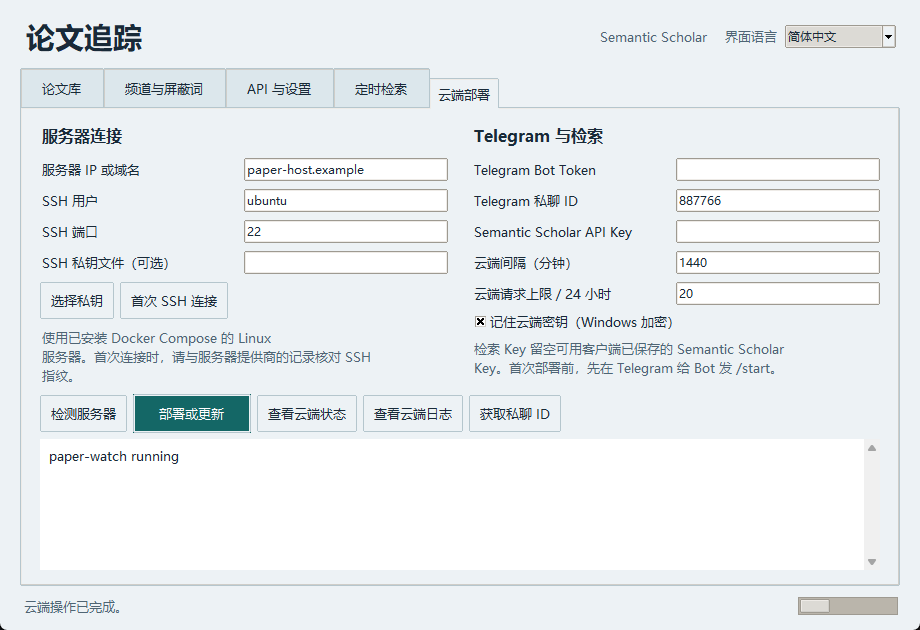
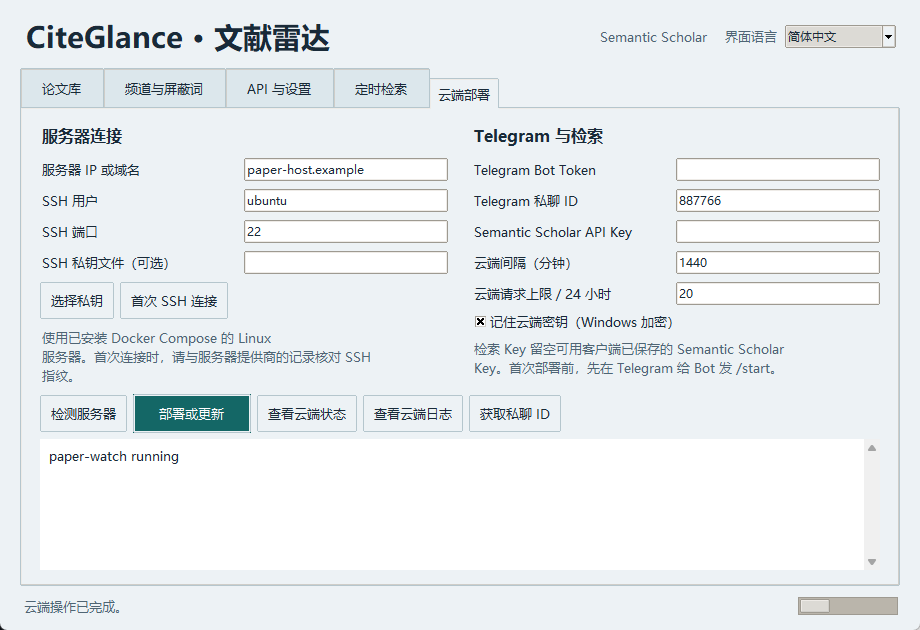
Rename the project to CiteGlance

Changed region(s): [[0.0304, 0.0302, 0.3652, 0.0905], [0.9739, 0.9952, 1.0, 1.0]]

diff --git a/desktop.py b/desktop.py
@@ -1,4 +1,4 @@
-"""Paper Watch desktop client for Windows and Python installations with Tk."""
+"""CiteGlance desktop client for Windows and Python installations with Tk."""
 
 from copy import deepcopy
 from datetime import datetime
@@ -52,7 +52,7 @@ class PaperWatch(tk.Tk):
         self.ui_language = self.settings["ui_language"]
         if not isinstance(self.ui_language, str) or self.ui_language not in INTERFACE_LANGUAGES:
             self.ui_language = "zh"
-        self.title(self.t("论文追踪"))
+        self.title(self.t(bot.APP_TITLE))
         self.static_labels = []
         self.tab_labels = []
         self.table_labels = []
@@ -93,7 +93,7 @@ class PaperWatch(tk.Tk):
 
         header = ttk.Frame(self, padding=(24, 15, 24, 10))
         header.pack(fill="x")
-        self.label(header, "论文追踪", font=TITLE_FONT).pack(side="left")
+        self.label(header, bot.APP_TITLE, font=TITLE_FONT).pack(side="left")
         self.locale_picker = ttk.Combobox(header, values=tuple(INTERFACE_LANGUAGES.values()),
                                          state="readonly", width=13)
         self.locale_picker.current(tuple(INTERFACE_LANGUAGES).index(self.ui_language))
@@ -222,7 +222,7 @@ class PaperWatch(tk.Tk):
             return
         self.settings = fresh
         self.ui_language = language
-        self.title(self.t("论文追踪"))
+        self.title(self.t(bot.APP_TITLE))
         for widget, caption in self.static_labels:
             widget.configure(text=self.t(caption))
         for tab, caption in self.tab_labels:
@@ -1144,4 +1144,4 @@ if __name__ == "__main__":
             language = saved_settings(DATA_DIRECTORY)["ui_language"]
         except (OSError, ValueError):
             language = "zh"
-        messagebox.showerror(translate(language, "无法启动论文追踪"), translate_error(language, error))
+        messagebox.showerror(translate(language, "无法启动 CiteGlance"), translate_error(language, error))

diff --git a/bot.py b/bot.py
@@ -19,6 +19,8 @@ STATE_FILE = ROOT / "state.json"
 SEARCH_URL = "https://api.semanticscholar.org/graph/v1/paper/search/bulk"
 FIELDS = "title,abstract,publicationDate,year,venue,url,externalIds,authors"
 REQUEST_BUDGET = 20
+APP_NAME = "CiteGlance"
+APP_TITLE = "CiteGlance · 文献雷达"
 JAPAN_TIME = timezone(timedelta(hours=9))
 
 
@@ -301,7 +303,7 @@ def format_entry(row):
 
 
 def report_chunks(today, rows, failures, used):
-    heading = f"论文追踪｜{today}（日本时间）\n本次新发现 {len(rows)} 篇 · Semantic Scholar 请求 {used} 次"
+    heading = f"{APP_TITLE}｜{today}（日本时间）\n本次新发现 {len(rows)} 篇 · Semantic Scholar 请求 {used} 次"
     if failures:
         heading += "\n检索未完成：" + "；".join(
             f"频道 {number}（{reason}）" for number, reason in sorted(failures)
@@ -318,7 +320,7 @@ def report_chunks(today, rows, failures, used):
             entry = raw[:6598].decode("utf-16-le", errors="ignore") + "…"
         if len((message + "\n\n" + entry).encode("utf-16-le")) > 7600:
             yield message, keys
-            message = f"论文追踪｜{today}（续）"
+            message = f"{APP_TITLE}｜{today}（续）"
             keys = set()
         message += "\n\n" + entry
         keys.update(identifiers)
@@ -337,7 +339,7 @@ def telegram_call(token, method, **params):
 
 
 def main():
-    parser = argparse.ArgumentParser(description="Semantic Scholar 四频道论文日更")
+    parser = argparse.ArgumentParser(description=f"{APP_NAME} · Semantic Scholar 论文追踪")
     argparse_modes = parser.add_mutually_exclusive_group()
     argparse_modes.add_argument("--chat-id", action="store_true", help="安全查询 Telegram 私聊 ID")
     argparse_modes.add_argument("--dry-run", action="store_true", help="只在终端预览")

diff --git a/server.py b/server.py
@@ -217,7 +217,7 @@ class AlwaysOn:
             scheduling = "自动检索已到期"
         current = " · 正在检索" if self.search_lock.locked() else ""
         outcome = self.store.get("last_result", "尚无记录")
-        return (f"论文追踪在线{current}\n{scheduling}\n"
+        return (f"{bot.APP_NAME} 在线{current}\n{scheduling}\n"
                 f"过去 24 小时的请求 · {used}/{self.settings.daily_budget}\n上次结果 · {outcome}")
 
     def update_offset(self):
@@ -242,7 +242,7 @@ class AlwaysOn:
                 continue
             command = (message.get("text") or "").strip().partition(" ")[0].partition("@")[0]
             if command in ("/start", "/help"):
-                self.send("论文追踪 Bot\n/status 查看状态和用量\n/search 立即检索全部频道")
+                self.send(f"{bot.APP_NAME} Bot\n/status 查看状态和用量\n/search 立即检索全部频道")
             elif command == "/status":
                 self.send(self.status())
             elif command == "/search":
@@ -297,7 +297,7 @@ def main():
         return 1
     for signum in (signal.SIGINT, signal.SIGTERM):
         signal.signal(signum, lambda *_: service.stop.set())
-    LOG.info("Paper Watch started: %s channels, interval %s minutes", len(channels), settings.interval_minutes)
+    LOG.info("%s started: %s channels, interval %s minutes", bot.APP_NAME, len(channels), settings.interval_minutes)
     service.run()
     return 0
 

diff --git a/cloud_remote.py b/cloud_remote.py
@@ -74,12 +74,12 @@ def execute(action, root):
     if action == "deploy":
         install_files(root, json.load(sys.stdin))
     if not (root / "compose.yaml").is_file():
-        raise ValueError("Paper Watch has not been deployed from the client on this host.")
+        raise ValueError("CiteGlance has not been deployed from the client on this host.")
     compose = [docker, "compose", "--project-name", "paper-watch"]
     if action == "deploy":
         run(compose + ["config", "--quiet"], root)
         run(compose + ["up", "-d", "--build", "--force-recreate"], root)
-        print("Paper Watch deployment submitted. Check container status and test /status in Telegram.")
+        print("CiteGlance deployment submitted. Check container status and test /status in Telegram.")
     if action in ("deploy", "status"):
         run(compose + ["ps", "-a"], root)
     if action == "logs":
@@ -94,5 +94,5 @@ if __name__ == "__main__":
         print(f"Docker command failed (exit {error.returncode}).", file=sys.stderr)
         sys.exit(1)
     except (ValueError, OSError, KeyError) as error:
-        print(f"Paper Watch: {error}", file=sys.stderr)
+        print(f"CiteGlance: {error}", file=sys.stderr)
         sys.exit(1)

diff --git a/i18n.py b/i18n.py
@@ -12,7 +12,7 @@ PRESET_CHANNELS = (
 )
 
 TEXT = {
-    "论文追踪": ("Paper Watch", "論文トラッカー"),
+    "CiteGlance · 文献雷达": ("CiteGlance", "CiteGlance · 論文レーダー"),
     "界面语言": ("Interface language", "表示言語"),
     "已载入本机论文库": ("Local library loaded", "ローカルの論文ライブラリを読み込みました"),
     "论文库": ("Library", "論文ライブラリ"),
@@ -260,7 +260,7 @@ TEXT = {
     "操作未完成": ("Operation incomplete", "操作を完了できませんでした"),
     "确定": ("OK", "OK"),
     "取消": ("Cancel", "キャンセル"),
-    "无法启动论文追踪": ("Could not start Paper Watch", "論文トラッカーを起動できませんでした"),
+    "无法启动 CiteGlance": ("Could not start CiteGlance", "CiteGlanceを起動できませんでした"),
     "无法保存界面语言": ("Could not save the interface language", "表示言語を保存できませんでした"),
     "无法解密保存的密钥，请在设置中重新输入。": (
         "The saved key could not be decrypted. Enter it again in Settings.",

diff --git a/docs/server.md b/docs/server.md
@@ -1,4 +1,4 @@
-# Linux 服务器常驻部署
+# CiteGlance · Linux 服务器常驻部署
 
 [返回项目首页](../README.md)
 
@@ -19,34 +19,11 @@ Docker 版本在 Linux 云服务器上常驻运行。它使用 Semantic Scholar 
 3. 通过 Telegram 的 `@BotFather` 创建 Bot，向它发 `/start`。在客户端填写 Token 后点「获取私聊 ID」，或填入已有的 ID。Semantic Scholar Key 一栏留空时可以复用客户端保存的检索密钥。
 4. 点「部署或更新」。客户端通过 SSH 传输服务文件和当前频道，设置频率和用量上限，启动 Docker。完成后可用「查看云端状态」「查看云端日志」检查，再到 Telegram 发 `/status` 验证。
 
-之后要同步频道、修改频率或更新程序，再点「部署或更新」。部署使用同一个 Docker 项目及数据卷。服务可在 Windows 客户端关闭后独立运行。
+之后要同步频道、修改频率或更新程序，再点「部署或更新」。部署沿用 Docker 项目名 `paper-watch` 及原有数据卷。服务可在 Windows 客户端关闭后独立运行。
 
 ### 首次登录后如何检查
 
-- 如果终端显示 `用户名@服务器:~# Linux 服务器常驻部署
-
-[返回项目首页](../README.md)
-
-Docker 版本在 Linux 云服务器上常驻运行。它使用 Semantic Scholar 检索 `channels.json` 中的频道，把简报发到指定的 Telegram 私聊。这个服务通过 Telegram 长轮询接收命令，只需服务器能够向 Semantic Scholar 和 Telegram 发起 HTTPS 请求。
-
-| Telegram 指令 | 用途 |
-| --- | --- |
-| `/status` | 查看在线状态、下次预计检索、近期请求用量和上次结果 |
-| `/search` | 请求立即检索全部频道，完成后接收简报 |
-| `/help` | 查看指令说明 |
-
-## 从 Windows 客户端部署
-
-![客户端云端部署页，展示服务器连接、Bot 设置、部署和日志按钮。](images/cloud.png)
-
-1. 在云服务商控制台准备一台带 Python 3、Docker Engine 和 Docker Compose 的 Linux 服务器，并添加你的 SSH 公钥。SSH 用户需要有 Docker 权限。
-2. 打开客户端「云端部署」。填入 IP 或域名、SSH 用户及端口。若有指定的私钥文件，点「选择私钥」；使用默认密钥或已加载到 SSH Agent 的密钥时可留空。首次连接可点「首次 SSH 连接」，和服务器控制台核对指纹，确认后再点「检测服务器」。
-3. 通过 Telegram 的 `@BotFather` 创建 Bot，向它发 `/start`。在客户端填写 Token 后点「获取私聊 ID」，或填入已有的 ID。Semantic Scholar Key 一栏留空时可以复用客户端保存的检索密钥。
-4. 点「部署或更新」。客户端通过 SSH 传输服务文件和当前频道，设置频率和用量上限，启动 Docker。完成后可用「查看云端状态」「查看云端日志」检查，再到 Telegram 发 `/status` 验证。
-
-之后要同步频道、修改频率或更新程序，再点「部署或更新」。部署使用同一个 Docker 项目及数据卷。服务可在 Windows 客户端关闭后独立运行。
-
-，说明 SSH 已登录。在该终端运行 `whoami` 可以确认 Linux 用户名。把输出按原有大小写填入客户端的「SSH 用户」。
+- 如果终端显示 `用户名@服务器:~$`，说明 SSH 已登录。在该终端运行 `whoami` 可以确认 Linux 用户名。把输出按原有大小写填入客户端的「SSH 用户」。
 - 首次连接时出现 `用户名@服务器's password:`，说明用户名已经选定。输入该 Linux 账号的密码即可，终端会隐藏输入。如果提示 `Permission denied`，按 `Ctrl+C` 退出，核对云服务器控制台上的用户名和登录方式，再重新连接。
 - 「检测服务器」和「部署或更新」通过 SSH 密钥登录。如果目前可以用密码进入服务器，先把 Windows 上对应的 SSH **公钥**添加到这个 Linux 用户的 `~/.ssh/authorized_keys`。使用 Windows OpenSSH 按默认路径生成 Ed25519 密钥时，公钥文件是 `%USERPROFILE%\.ssh\id_ed25519.pub`。如果还没有 SSH 密钥，可以先在 Windows PowerShell 运行 `ssh-keygen -t ed25519` 生成一对，保留已有的密钥文件。添加公钥时保留原有内容，每把公钥单独一行。 [Windows OpenSSH 密钥文档](https://learn.microsoft.com/en-us/windows-server/administration/openssh/openssh_keymanagement)
 - 在已登录的 Linux 终端运行以下两条命令。第一条确认 Compose 是否已安装，第二条确认该 SSH 用户能否访问 Docker Engine。

diff --git a/docs/usage.md b/docs/usage.md
@@ -1,4 +1,4 @@
-# Paper Watch 使用与部署指南
+# CiteGlance 使用与部署指南
 
 [返回项目首页](../README.md)
 
@@ -76,7 +76,7 @@ python bot.py --chat-id
    | `TELEGRAM_BOT_TOKEN` | BotFather 发放的 Token |
    | `TELEGRAM_CHAT_ID` | 上一步取得的私聊 ID |
 
-3. 到 **Actions → 每日论文追踪 → Run workflow**。首次保持「仅检索并预览，不发送 Telegram」勾选，在运行日志看检索结果。这一步需要 Semantic Scholar API Key。
+3. 到 **Actions → CiteGlance 每日检索 → Run workflow**。首次保持「仅检索并预览，不发送 Telegram」勾选，在运行日志看检索结果。这一步需要 Semantic Scholar API Key。
 4. 确认结果后，可以手动取消预览勾选运行一次，验证 Telegram 能收到简报。要启用日程，在 **Settings → Secrets and variables → Actions → Variables** 添加仓库变量 `PAPER_WATCH_CLOUD_ENABLED`，值设为 `true`。启用后每天由 GitHub 运行。重复手动运行会产生额外 API 请求。
 
 云端密钥通过 GitHub Secrets 配置。桌面端可以使用 Windows 加密保存。云端工作流会把去重记录提交到仓库。个人使用时可在私有仓库中部署。

diff --git a/README.md b/README.md
@@ -1,10 +1,10 @@
-# Paper Watch · 论文追踪
+# CiteGlance · 文献雷达
 
-Paper Watch 是一个 Windows 学术论文追踪客户端。按研究主题设置检索频道，定时查找近期论文，在同一个窗口阅读摘要、核对关键词、收藏论文和保存译文。
+CiteGlance 是一个 Windows 学术论文追踪客户端。按研究主题设置检索频道，定时查找近期论文，在同一个窗口阅读摘要、核对关键词、收藏论文和保存译文。
 
 The Windows desktop app tracks new research papers across configurable search channels. It supports scheduled searches, local history and favorites, and on-demand abstract translation.
 
-![Paper Watch 的论文库。左侧显示按频道检索到的论文，右侧显示来源、命中的检索词和摘要。](docs/images/library.png)
+![CiteGlance 的论文库。左侧显示按频道检索到的论文，右侧显示来源、命中的检索词和摘要。](docs/images/library.png)
 
 *界面预览使用示例数据。*
 
